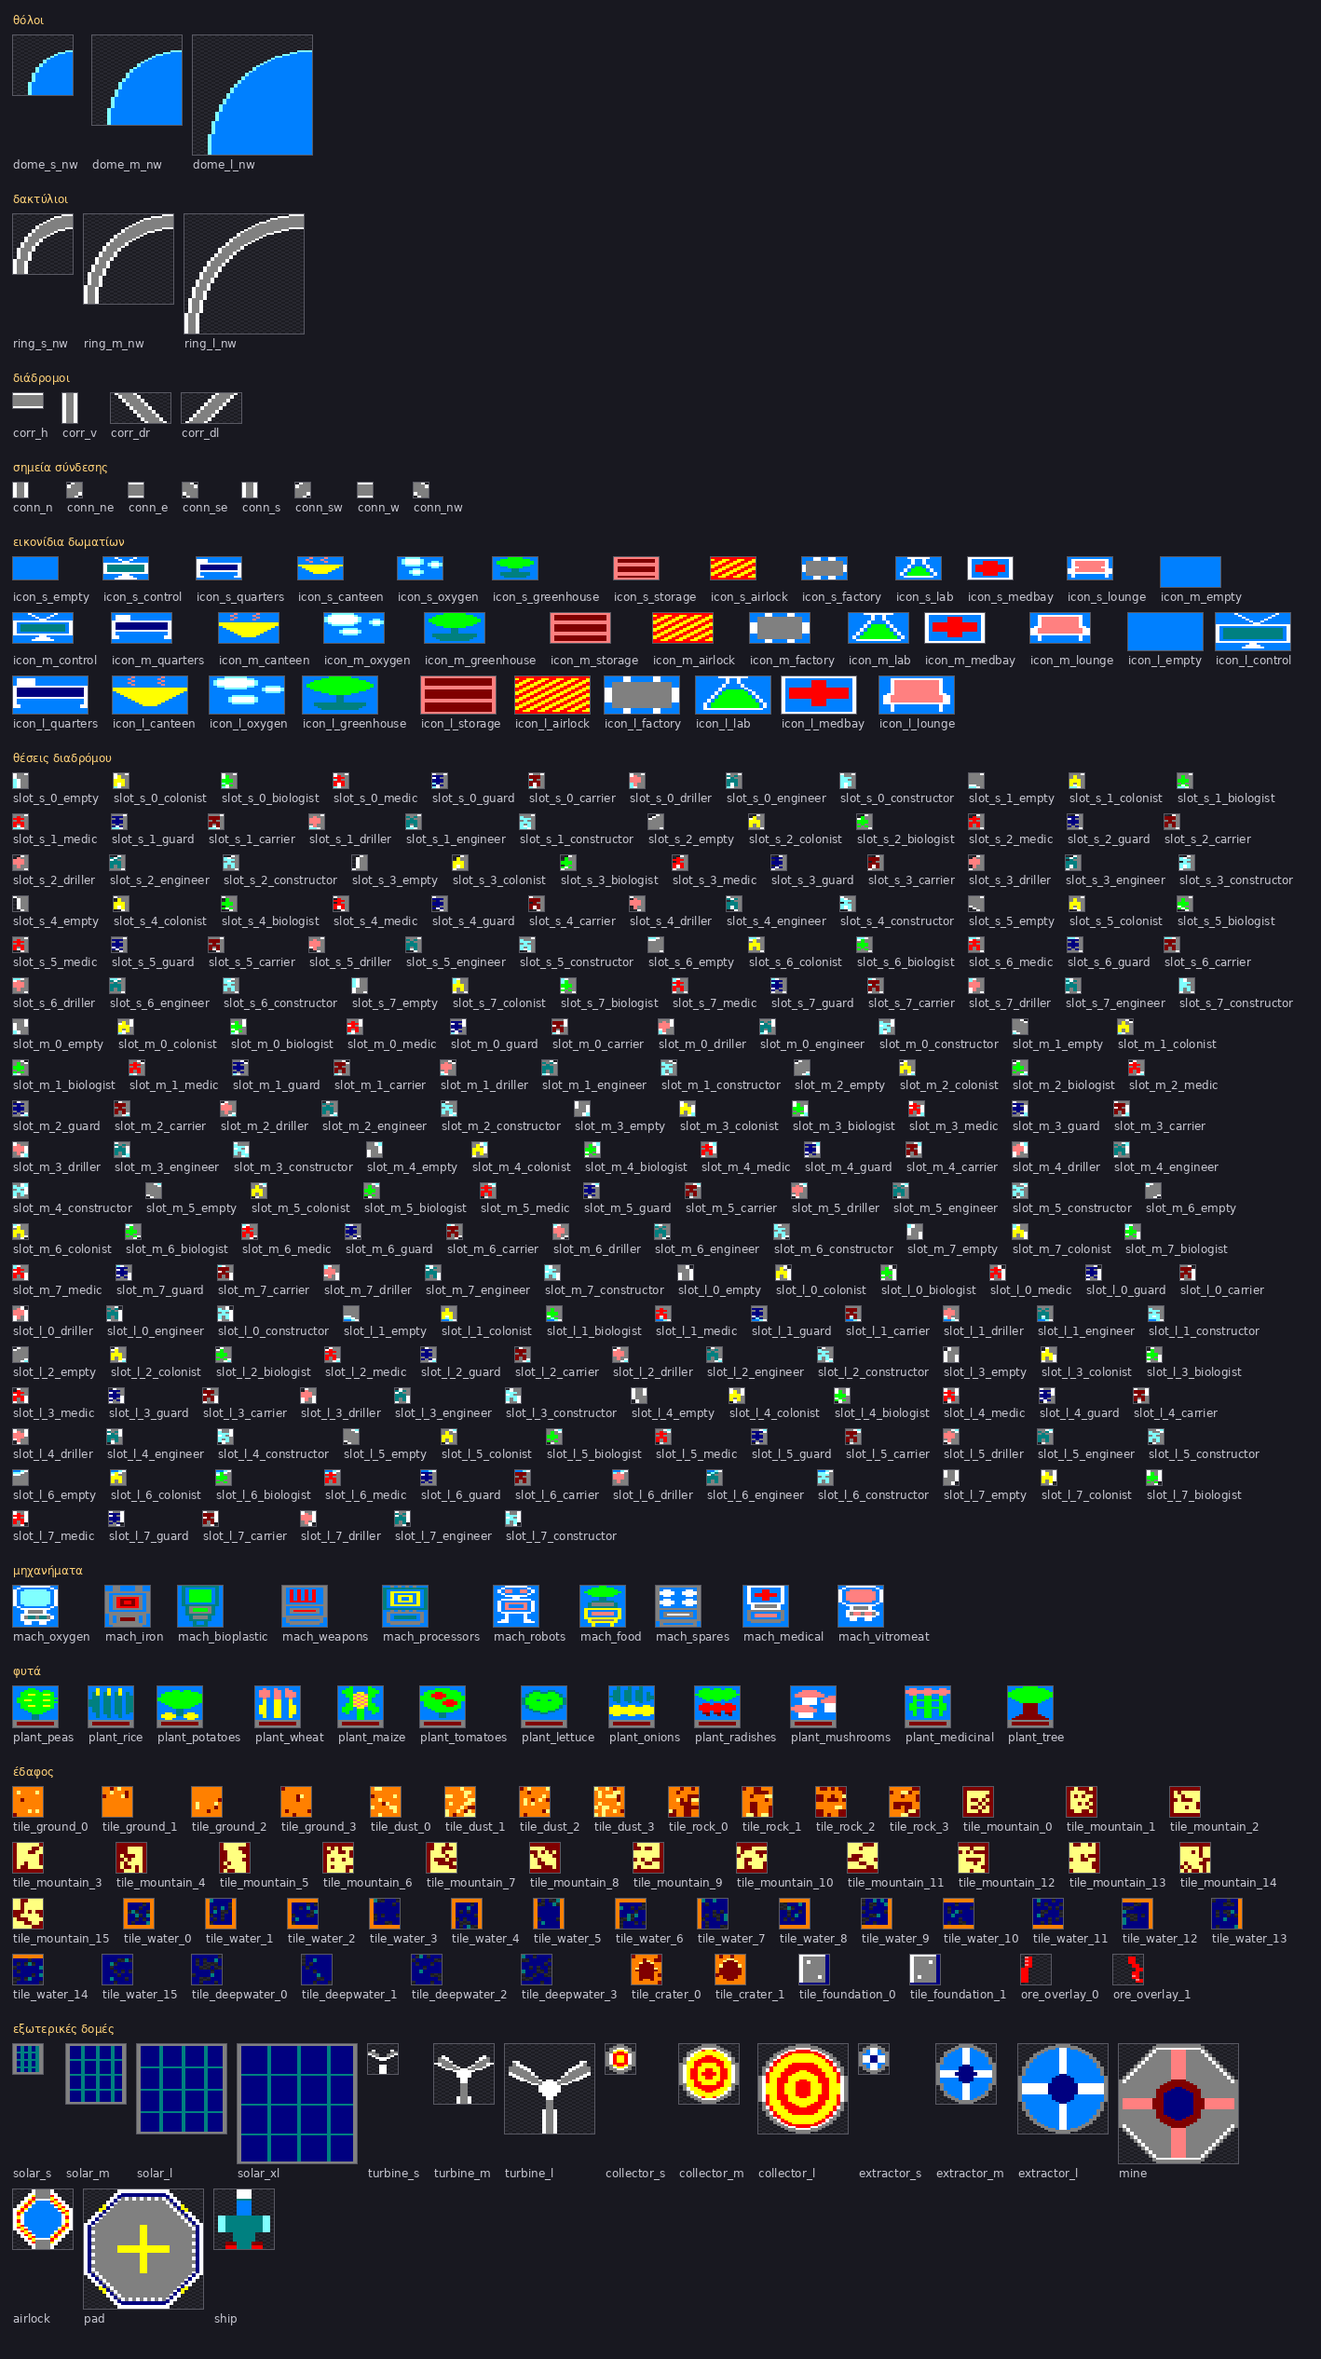
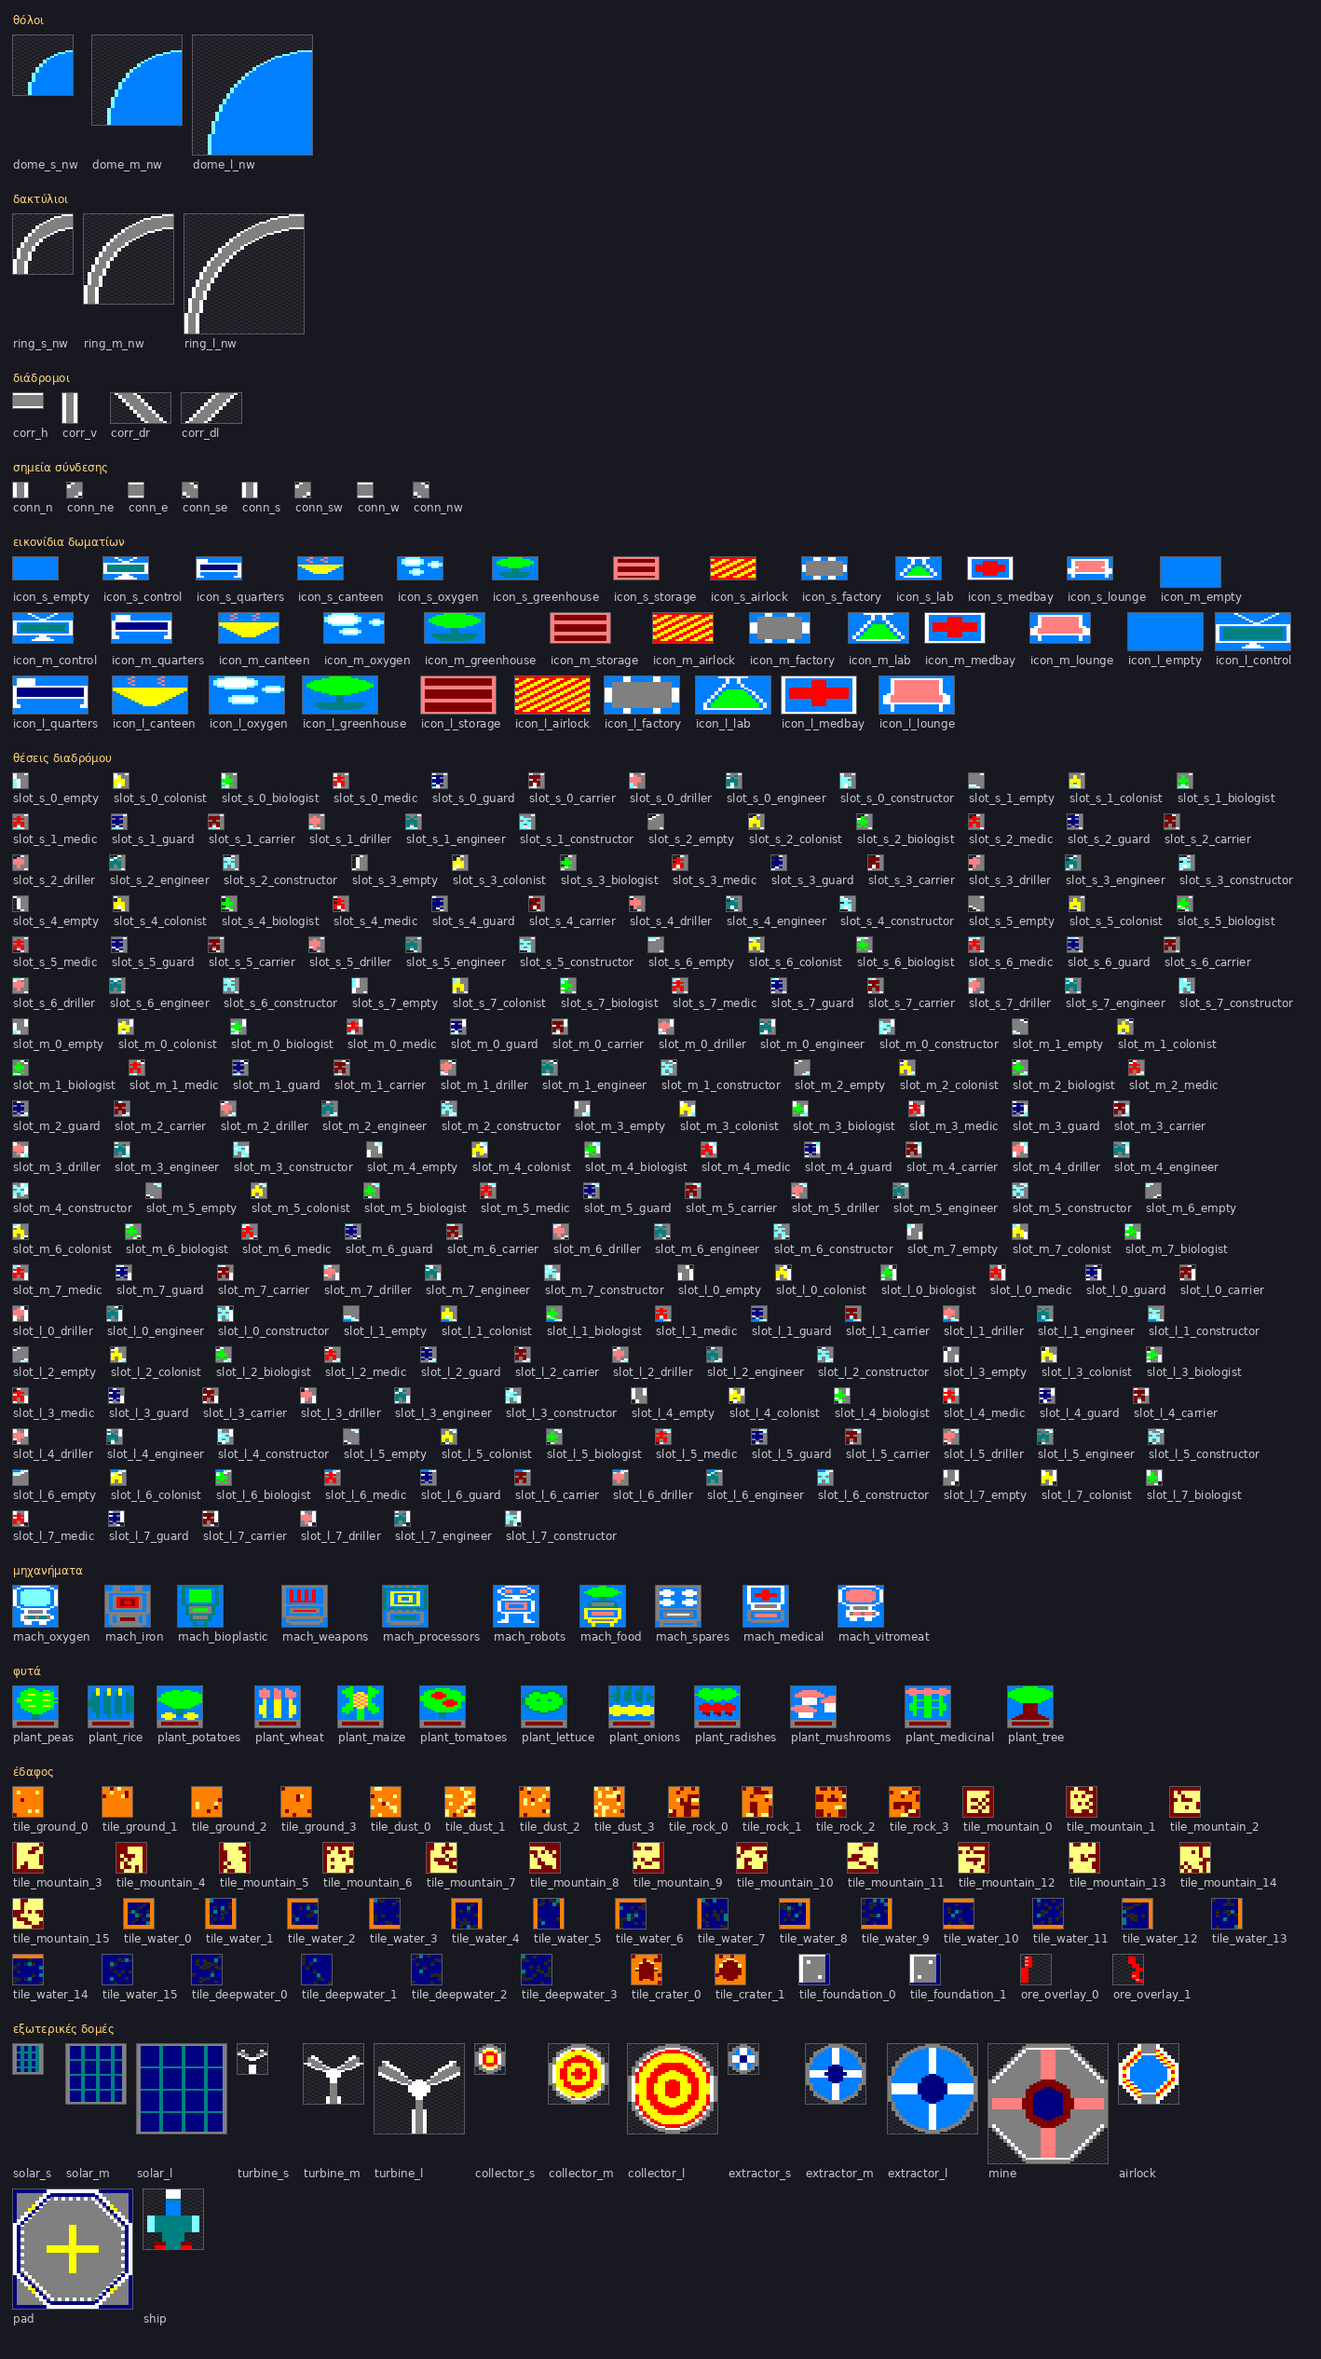
assets: αδιαφανής πλατφόρμα, έξοδος solar_xl — όλες οι τράπεζες χωράνε
Sync από CPCArt. Οι εξωτερικές δομές 11.264, sprites.bin 36.608.

Το §4.2 κλείνει: τράπεζα 6 περιθώριο 640, τράπεζα 2 περιθώριο 233, τράπεζα 7
περιθώριο 464. Δεν υπάρχει πια υπέρβαση πουθενά.

Καταγράφηκε και το ότι η τράπεζα 7 ήταν 48 bytes πάνω πριν καν φτάσουν η
πλατφόρμα και το σκάφος — τα 512 του αεροθαλάμου δεν είχαν μπει ποτέ σε εκείνον
τον πίνακα όταν παραδόθηκε.

Ο πίνακας αποτυπωμάτων του §3 έλεγε ότι το μέγεθος xl είναι το solar_xl και το
mine· το solar_xl δεν υπάρχει πια, οπότε είναι το mine και η πλατφόρμα.

Changed region(s): [[0.0, 0.8424, 0.9619, 0.9984]]

diff --git a/DESIGN.md b/DESIGN.md
@@ -204,7 +204,7 @@ The tile size was derived from the art, not imposed on it. Every sprite in
 | structure `s` | 4 × 16 | 1 × 1 |
 | structure `m` | 8 × 32 | 2 × 2 |
 | structure `l` | 12 × 48 | 3 × 3 |
-| structure `xl` (`solar_xl`, `mine`) | 16 × 64 | 4 × 4 |
+| structure `xl` (`mine`, `pad`) | 16 × 64 | 4 × 4 |
 | diagonal corridor step `(CORR_D_SX, CORR_D_SY)` | 4 × 16 | **1 × 1** |
 
 The diagonal corridor advancing exactly one tile per step is the happy accident that
@@ -298,7 +298,7 @@ must always be reachable is in bank 0 (`&0000–&3FFF`) or bank 2 (`&8000–&BFF
 | window | 4 | **world plane** 128×128×1 byte | 16,384 | 0 |
 | window | 5 | **next-hop matrix** `NEXTHOP[128][128]` | 16,384 | 0 |
 | window | 6 | dome+ring `nw` quadrants 7,424 · slot figures 3,456 · entity tables 4,096 · job board 256 · path workspace 512 | 15,744 | 640 |
-| window | 7 | external structures 14,336 · plants 1,584 · text 1,024 · audio 2,048 | 18,992 | **−2,608** |
+| window | 7 | external structures 11,264 · plants 1,584 · text 1,024 · audio 2,048 | 15,920 | 464 |
 | `&8000–&BFFF` | 2 | HUD screen page 3,200 + graphics arenas 12,951 | 16,151 | 233 |
 | `&C000–&FFFF` | 3 | play-area screen | 16,384 | 0 |
 
@@ -306,21 +306,25 @@ Every bank is spoken for. The two matrices in banks 1 and 5 are the clearest ans
 to "what is the extra 64 KB actually *for*": they turn pathfinding from a per-agent
 search into a single table read ([§6.4](#64-routing)).
 
-**Bank 7 is over capacity, and that is the one live problem.** ASSET-3 landed exactly
-on its 3,456-byte budget, so bank 6 is fine at 640 slack, and the font was built at
-4 px, so bank 2 closes at 233 with the `s` room icons intact. The numbers above are
-measured from `assets/sprites_map.txt`, not estimated.
+**Every bank now fits, and the numbers above are measured from
+`assets/sprites_map.txt` rather than estimated.** ASSET-3 landed exactly on its
+3,456-byte budget, so bank 6 holds at 640 slack; the font was built at 4 px, so
+bank 2 closes at 233 with the `s` room icons intact; and bank 7 came back from
+2,608 over to **464 slack** by two decisions taken together:
 
-**Bank 7 is 2,608 over.** The landing pad (2,048, masked) and ship (512) came in at
-2,560, and the airlock's 512 was never added to this table — it was 48 over before
-either of them arrived. Dropping `solar_xl` (2,048) leaves it 560 over; dropping four
-plant species too (528) leaves it 32 over. The combination that clears it with room
-to spare is **`solar_xl` plus making the pad opaque** — a square apron instead of a
-masked octagon saves 1,024 and ends at 464 slack. That trades Planetbase's round pad
-for a built one, which is a look decision, not a memory one.
+- **`solar_xl` is gone** (−2,048). The solar panel now has three sizes, not four.
+  `struct_dims` still reserves four slots per structure, so the fourth reads `0,0`.
+- **The landing pad is opaque** (−1,024). It is a poured slab that *replaces* the
+  terrain rather than sitting on it, so it needs no mask — the octagon is painted
+  on a square pad instead of being cut out of one. Its corners cannot imitate
+  terrain anyway, because the terrain pens change per planet.
 
-That decision is not the generator's to make, so the assets are delivered and the
-bank left honest rather than quietly trimmed.
+Bank 7 was 48 bytes over even before the pad and ship arrived: the airlock's 512
+was never added to this table when it was delivered. That is corrected above.
+
+Slack is thin — about 1.3 KB across the three windows. The next cheap cuts, in order:
+four plant species (528 B), the `s` room-icon set (864 B), moving `plants` into
+bank 6. The font's lowercase is **not** on that list ([§4.3](#43-the-8000-page-and-its-arenas)).
 
 ### 4.3 The `&8000` page and its arenas
 
@@ -1261,7 +1265,7 @@ remain outstanding; ASSET-6 is cosmetic.
 | ✅ **ASSET-2** | **Four room icons** — Factory, Lab, Medbay, Lounge — at all three sizes | 1,600 B | Six of the ten machines currently have no room to live in. |
 | ✅ **ASSET-3** | **Four slot figures** — biologist, medic, guard, constructor bot — raising `SLOT_FIGS` 5 → 9 | +1,536 B | Five roles and three bot types share four figures today. |
 | ✅ **ASSET-4** | **4×8 font**, 96 glyphs, 2 colours (a 6×8 set is also built) | 1,536 B | Mode 0 at 8 px gives 20 columns. The HUD needs 40. |
-| ✅ **ASSET-5** | **Landing pad**, 4×4 tiles masked, plus a ship sprite | 2,560 B | Ships, colonist arrival and trade are the mid-game. |
+| ✅ **ASSET-5** | **Landing pad**, 4×4 tiles *opaque*, plus a ship sprite | 1,536 B | Ships, colonist arrival and trade are the mid-game. |
 | **ASSET-6** | *Optional:* move `conn_points` and corridor lanes onto the 8-line half-tile grid | 0 B | Tidies corridor/tile alignment ([§3.3](#33-the-grid-is-not-a-choice)). Cosmetic. |
 | ✅ **ASSET-7** | **Palette re-plan**: four pens reserved for terrain, icons re-quantised to five; four planet palette variants | 64 B | [§8.6](#86-palette). Buys four planets for nothing. |
 | ✅ **ASSET-8** | Pin the sprite build to **`--quads nw`** | −22,272 B | [§4.4](#44---quads-nw-is-mandatory). The `all` build does not fit. |
@@ -1283,6 +1287,11 @@ Delivery notes, for the record:
   are indistinguishable at 6×6 visual pixels, and the figure you must find in an
   emergency is the medic, not the hauler. Verification 11 now refuses to build if any
   two figures share a dominant pen.
+- **ASSET-5's pad is opaque, not masked** — this spec said masked. A poured slab
+  replaces the terrain instead of sitting on it, so the mask bought nothing and cost
+  1,024 bytes; the octagon is painted on a square pad rather than cut out of one.
+  Whether a structure is masked is now a column of `STRUCTURES`, not a constant, and
+  the pad is the only one set to `False`.
 - **ASSET-4 ships at 4 px, as specified** — 40 columns, 1,536 bytes. A full 6×8 set
   was also built and is one constant away in `tools/font.py`; it reads better but
   costs 768 bytes and a third of the HUD width. The **lowercase glyphs stay** in

diff --git a/assets/SPRITES.md b/assets/SPRITES.md
@@ -366,29 +366,40 @@ conn_points + size*CONN_DIRS*2 + dir*2   -> (x σε bytes, y) μέσα στο π
 
 | Δομή | Μεγέθη | Ετικέτες |
 |---|---|---|
-| `solar` | 4 | `solar_s`, `solar_m`, `solar_l`, `solar_xl` |
+| `solar` | 3 | `solar_s`, `solar_m`, `solar_l` |
 | `turbine` | 3 | `turbine_s/m/l` |
 | `collector` | 3 | `collector_s/m/l` |
 | `extractor` | 3 | `extractor_s/m/l` |
 | `mine` | 1 | `mine` |
 | `airlock` | 1 | `airlock` |
-| `pad` | 1 | `pad` |
+| `pad` | 1 | `pad` — **αδιαφανές** |
 | `ship` | 1 | `ship` |
 
-Μεγέθη σε pixels: `s` 8×16, `m` 16×32, `l` 24×48, `xl` 32×64 — όλα **οπτικά
-τετράγωνα** (16×16 έως 64×64). Το ορυχείο υπάρχει μόνο στο 32×64, ο αεροθάλαμος
-μόνο στο 16×32.
+Μεγέθη σε pixels: `s` 8×16, `m` 16×32, `l` 24×48 — όλα **οπτικά τετράγωνα** (16×16
+έως 48×48). Το ορυχείο και η πλατφόρμα υπάρχουν μόνο στο 32×64, ο αεροθάλαμος και το
+σκάφος μόνο στο 16×32.
+
+Το `solar_xl` (32×64) **αφαιρέθηκε**: 2.048 bytes που δεν υπήρχαν στην τράπεζα 7. Ο
+πίνακας `struct_dims` κρατά τέσσερις θέσεις ανά δομή, οπότε η τέταρτη του ηλιακού
+είναι πλέον `0,0` — «δεν υπάρχει».
+
+**Η πλατφόρμα είναι η μόνη δομή χωρίς μάσκα.** Είναι χτιστό δάπεδο που αντικαθιστά
+το έδαφος αντί να κάθεται πάνω του, οπότε δεν χρειάζεται να φαίνεται τίποτα από
+κάτω — και κοστίζει 1.024 bytes αντί για 2.048. Η σημαία είναι στήλη του
+`STRUCTURES`, όχι σταθερά της γεννήτριας.
 
 Ο αεροθάλαμος είναι συμμετρικός πάνω-κάτω ώστε να κουμπώνει με διάδρομο από όποια
 πλευρά χρειαστεί· στο Planetbase συνδέεται με **μία** εσωτερική δομή. Οι ρίγες
 κινδύνου του είναι τα ίδια χρώματα με το εικονίδιο δωματίου `airlock`, ώστε να
 διαβάζεται αμέσως τι είναι.
 
-Η **πλατφόρμα προσγείωσης** είναι κανονικό οκτάγωνο 32×64 (οπτικά 64×64): χείλος,
-σκοτεινή ζώνη ασφαλείας, ρίγες πρόσδεσης και κίτρινος σταυρός στο κέντρο, με φώτα
-προσέγγισης στις τέσσερις διαγωνίους. Είναι οκτάγωνο και όχι τετράγωνο ώστε οι
-γωνίες να δείχνουν το έδαφος από κάτω — γι' αυτό έχει μάσκα. Ο συντελεστής της
-διαγωνίου είναι `1/√2`· μεγαλύτερος κόβει τις γωνίες και το σχήμα γίνεται ρόμβος.
+Η **πλατφόρμα προσγείωσης** είναι τετράγωνη χυτή πλάκα 32×64 (οπτικά 64×64) με
+**βαμμένο** οκτάγωνο πάνω της: χείλος, σκοτεινή ζώνη ασφαλείας, ρίγες πρόσδεσης και
+κίτρινος σταυρός στο κέντρο, με φώτα προσέγγισης στις τέσσερις διαγωνίους. Οι γωνίες
+δεν μπορούν να μιμηθούν έδαφος — τα pens του εδάφους αλλάζουν ανά πλανήτη — οπότε
+συνεχίζουν την ίδια πλάκα, με μόνο το χείλος της σκούρο ώστε να ορίζεται πάνω στο
+έδαφος. Ο συντελεστής της διαγωνίου του οκταγώνου είναι `1/√2`· μεγαλύτερος κόβει τις
+γωνίες και το σχήμα γίνεται ρόμβος.
 
 Το **σκάφος** είναι 16×32, μισό πλάτος από την πλατφόρμα, ώστε να κάθεται μέσα στο
 οκτάγωνο χωρίς να το σκεπάζει. Η μύτη δείχνει **πάνω**· οι άλλες τρεις κατευθύνσεις
@@ -512,11 +523,11 @@ kind: 0 solar · 1 turbine · 2 collector · 3 extractor · 4 mine · 5 airlock
 
 **`--quads nw` είναι η προεπιλογή**: αποθηκεύεται μόνο το τεταρτημόριο `nw` κάθε
 θόλου και δακτυλίου, και τα άλλα τρία παράγονται τη στιγμή του blit με το
-`flip_mode0` (§5). Σύνολο **38,8 KB**. Με `--quads all` γίνεται 60,5 KB.
+`flip_mode0` (§5). Σύνολο **35,8 KB**. Με `--quads all` γίνεται 57,5 KB.
 
 | Κατηγορία | bytes |
 |---|---|
-| εξωτερικές δομές | 14.336 |
+| εξωτερικές δομές | 11.264 |
 | εικονίδια δωματίων | 4.800 |
 | θόλοι | 3.712 |
 | δακτύλιοι | 3.712 |

diff --git a/assets/README.md b/assets/README.md
@@ -6,7 +6,7 @@
 | | |
 |---|---|
 | Πηγή | repo `CPCArt`, φάκελος `planetbase/` |
-| Έκδοση | `a96f83c` |
+| Έκδοση | `8ea4d78` |
 | Συγχρονίστηκε | 2026-09-21 |
 
 ```bash
